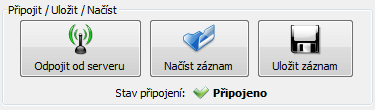
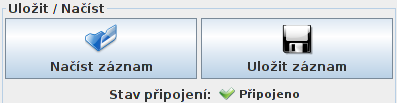
uprava napovedy

diff --git a/resources/help/cz/topics/tutorial/2_simulator/simulation_mode.html b/resources/help/cz/topics/tutorial/2_simulator/simulation_mode.html
@@ -10,7 +10,6 @@
             <h3>Tutorial 2: Simualční režim</h3>
             <ul>
                 <li><a href="./simulation_mode.html">Simulační režim</a></li>
-                <li><a href="./simulator_connecting.html">Připojení k simulátoru</a></li>
                 <li><a href="./event_recieve_list_move.html">Příjem událostí, pohyb v seznamu</a></li>
                 <li><a href="./event_playing.html">Přehrávání událostí</a></li>
                 <li><a href="./event_save_load.html">Uložení a načtení seznamu událostí</a></li>
@@ -28,7 +27,7 @@
             
             <h2>Přepnutí do simulačního režimu</h2>
             
-            <p>Poté se přepneme do simulačního režimu pomocí tlačítka vpravo nahoře <b>(Simulátor)</b>:</p>
+            <p>Poté se přepneme do simulačního režimu pomocí tlačítka <b>(Start)</b> v nástrojové liště:</p>
             
             <img src="../../../../images/cz/simulator_mode_change.png" >
             
@@ -40,7 +39,7 @@
         
             <img src="../../../../images/cz/simulator_mode.png" >
          
-            <p>Další částí tutorialu je: <a href="./simulator_connecting.html">Připojení k simulátoru</a>.</p>
+            <p>Další částí tutorialu je: <a href="./event_recieve_list_move.html.html">Příjem událostí, pohyb v seznamu</a>.</p>
         </div>
     </body>
 </html>

diff --git a/resources/help/default/topics/tutorial/2_simulator/simulation_mode.html b/resources/help/default/topics/tutorial/2_simulator/simulation_mode.html
@@ -10,7 +10,6 @@
             <h3>Tutorial 2: Simulator mode</h3>
             <ul>
                 <li><a href="./simulation_mode.html">Simulator mode</a></li>
-                <li><a href="./simulator_connecting.html">Connecting to simulator</a></li>
                 <li><a href="./event_recieve_list_move.html">Event recieving, moving in event list</a></li>
                 <li><a href="./event_playing.html">Event playing</a></li>
                 <li><a href="./event_save_load.html">Save / Load event list</a></li>
@@ -28,7 +27,7 @@
             
             <h2>Switching to simulator mode</h2>
             
-            <p>Switch to simulator mode using <b>Simulator</b> button (top right corner):</p>
+            <p>Switch to simulator mode using <b>Start</b> button in the toolbar:</p>
             
             <img src="../../../../images/en/simulator_mode_change.png" >
             
@@ -40,7 +39,7 @@
 
             <img src="../../../../images/en/simulator_mode.png" >
          
-            <p>Next part of this tutorial is: <a href="./simulator_connecting.html">Connecting to simulator</a>.</p>
+            <p>Next part of this tutorial is: <a href="./event_recieve_list_move.html.html">Event recieving, moving in event list</a>.</p>
         </div>
     </body>
 </html>

diff --git a/resources/help/cz/topics/tutorial/2_simulator/event_save_load.html b/resources/help/cz/topics/tutorial/2_simulator/event_save_load.html
@@ -10,7 +10,6 @@
             <h3>Tutorial 2: Simualční režim</h3>
             <ul>
                 <li><a href="./simulation_mode.html">Simulační režim</a></li>
-                <li><a href="./simulator_connecting.html">Připojení k simulátoru</a></li>
                 <li><a href="./event_recieve_list_move.html">Příjem událostí, pohyb v seznamu</a></li>
                 <li><a href="./event_playing.html">Přehrávání událostí</a></li>
                 <li><a href="./event_save_load.html">Uložení a načtení seznamu událostí</a></li>
@@ -21,7 +20,7 @@
             <h1>Uložení a načtení seznamu událostí</h1>
 
             <p>Pro uložení a načtení událostí slouží tlačítka <b>Načíst záznam</b> a <b>Uložit záznam</b>
-                v panelu <b>Připojit/Uložit/Načíst</b>:</p>
+                v panelu <b>Uložit/Načíst</b>:</p>
             
             <img src="../../../../images/cz/connect_save_load.png" >
 

diff --git a/resources/help/default/topics/tutorial/2_simulator/event_save_load.html b/resources/help/default/topics/tutorial/2_simulator/event_save_load.html
@@ -10,7 +10,6 @@
             <h3>Tutorial 2: Simulator mode</h3>
             <ul>
                 <li><a href="./simulation_mode.html">Simulator mode</a></li>
-                <li><a href="./simulator_connecting.html">Connecting to simulator</a></li>
                 <li><a href="./event_recieve_list_move.html">Event recieving, moving in event list</a></li>
                 <li><a href="./event_playing.html">Event playing</a></li>
                 <li><a href="./event_save_load.html">Save / Load event list</a></li>
@@ -20,7 +19,7 @@
             
             <h1>Save / Load event list</h1>
 
-            <p>Use <b>Load list from file</b> and <b>Save list to file</b> buttons from <b>Connect/Save/Load</b> panel
+            <p>Use <b>Load list from file</b> and <b>Save list to file</b> buttons from <b>Save/Load</b> panel
                 for the event list to load/save:</p>
             
             <img src="../../../../images/en/connect_save_load.png" >

diff --git a/resources/help/cz/topics/tutorial/2_simulator/event_playing.html b/resources/help/cz/topics/tutorial/2_simulator/event_playing.html
@@ -10,7 +10,6 @@
             <h3>Tutorial 2: Simualční režim</h3>
             <ul>
                 <li><a href="./simulation_mode.html">Simulační režim</a></li>
-                <li><a href="./simulator_connecting.html">Připojení k simulátoru</a></li>
                 <li><a href="./event_recieve_list_move.html">Příjem událostí, pohyb v seznamu</a></li>
                 <li><a href="./event_playing.html">Přehrávání událostí</a></li>
                 <li><a href="./event_save_load.html">Uložení a načtení seznamu událostí</a></li>

diff --git a/resources/help/cz/topics/tutorial/2_simulator/event_recieve_list_move.html b/resources/help/cz/topics/tutorial/2_simulator/event_recieve_list_move.html
@@ -10,7 +10,6 @@
             <h3>Tutorial 2: Simualční režim</h3>
             <ul>
                 <li><a href="./simulation_mode.html">Simulační režim</a></li>
-                <li><a href="./simulator_connecting.html">Připojení k simulátoru</a></li>
                 <li><a href="./event_recieve_list_move.html">Příjem událostí, pohyb v seznamu</a></li>
                 <li><a href="./event_playing.html">Přehrávání událostí</a></li>
                 <li><a href="./event_save_load.html">Uložení a načtení seznamu událostí</a></li>

diff --git a/resources/help/cz/topics/tutorial/2_simulator/simulator_connecting.html b/resources/help/cz/topics/tutorial/2_simulator/simulator_connecting.html
@@ -10,7 +10,6 @@
             <h3>Tutorial 2: Simualční režim</h3>
             <ul>
                 <li><a href="./simulation_mode.html">Simulační režim</a></li>
-                <li><a href="./simulator_connecting.html">Připojení k simulátoru</a></li>
                 <li><a href="./event_recieve_list_move.html">Příjem událostí, pohyb v seznamu</a></li>
                 <li><a href="./event_playing.html">Přehrávání událostí</a></li>
                 <li><a href="./event_save_load.html">Uložení a načtení seznamu událostí</a></li>

diff --git a/resources/help/default/topics/tutorial/2_simulator/event_playing.html b/resources/help/default/topics/tutorial/2_simulator/event_playing.html
@@ -10,7 +10,6 @@
             <h3>Tutorial 2: Simulator mode</h3>
             <ul>
                 <li><a href="./simulation_mode.html">Simulator mode</a></li>
-                <li><a href="./simulator_connecting.html">Connecting to simulator</a></li>
                 <li><a href="./event_recieve_list_move.html">Event recieving, moving in event list</a></li>
                 <li><a href="./event_playing.html">Event playing</a></li>
                 <li><a href="./event_save_load.html">Save / Load event list</a></li>

diff --git a/resources/help/default/topics/tutorial/2_simulator/event_recieve_list_move.html b/resources/help/default/topics/tutorial/2_simulator/event_recieve_list_move.html
@@ -10,7 +10,6 @@
             <h3>Tutorial 2: Simulator mode</h3>
             <ul>
                 <li><a href="./simulation_mode.html">Simulator mode</a></li>
-                <li><a href="./simulator_connecting.html">Connecting to simulator</a></li>
                 <li><a href="./event_recieve_list_move.html">Event recieving, moving in event list</a></li>
                 <li><a href="./event_playing.html">Event playing</a></li>
                 <li><a href="./event_save_load.html">Save / Load event list</a></li>

diff --git a/resources/help/default/topics/tutorial/2_simulator/simulator_connecting.html b/resources/help/default/topics/tutorial/2_simulator/simulator_connecting.html
@@ -10,7 +10,6 @@
             <h3>Tutorial 2: Simulator mode</h3>
             <ul>
                 <li><a href="./simulation_mode.html">Simulator mode</a></li>
-                <li><a href="./simulator_connecting.html">Connecting to simulator</a></li>
                 <li><a href="./event_recieve_list_move.html">Event recieving, moving in event list</a></li>
                 <li><a href="./event_playing.html">Event playing</a></li>
                 <li><a href="./event_save_load.html">Save / Load event list</a></li>
